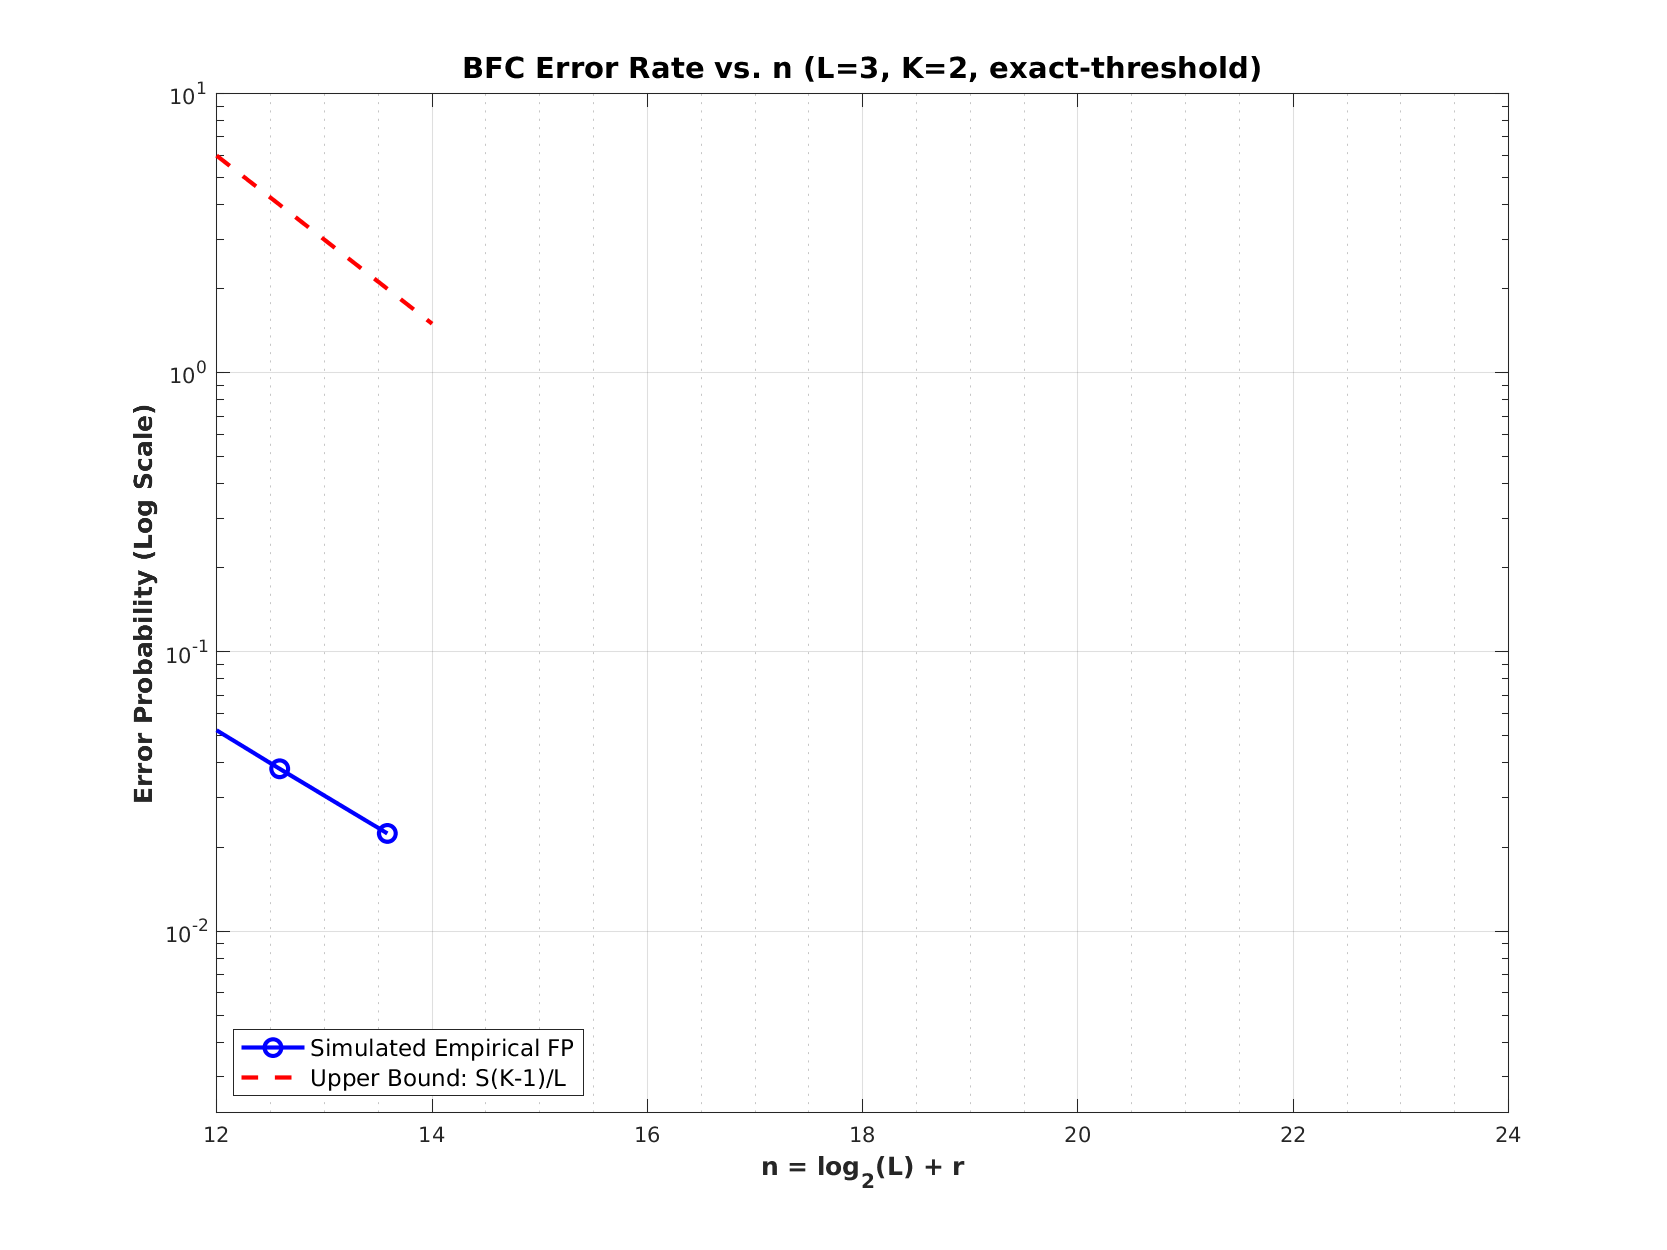
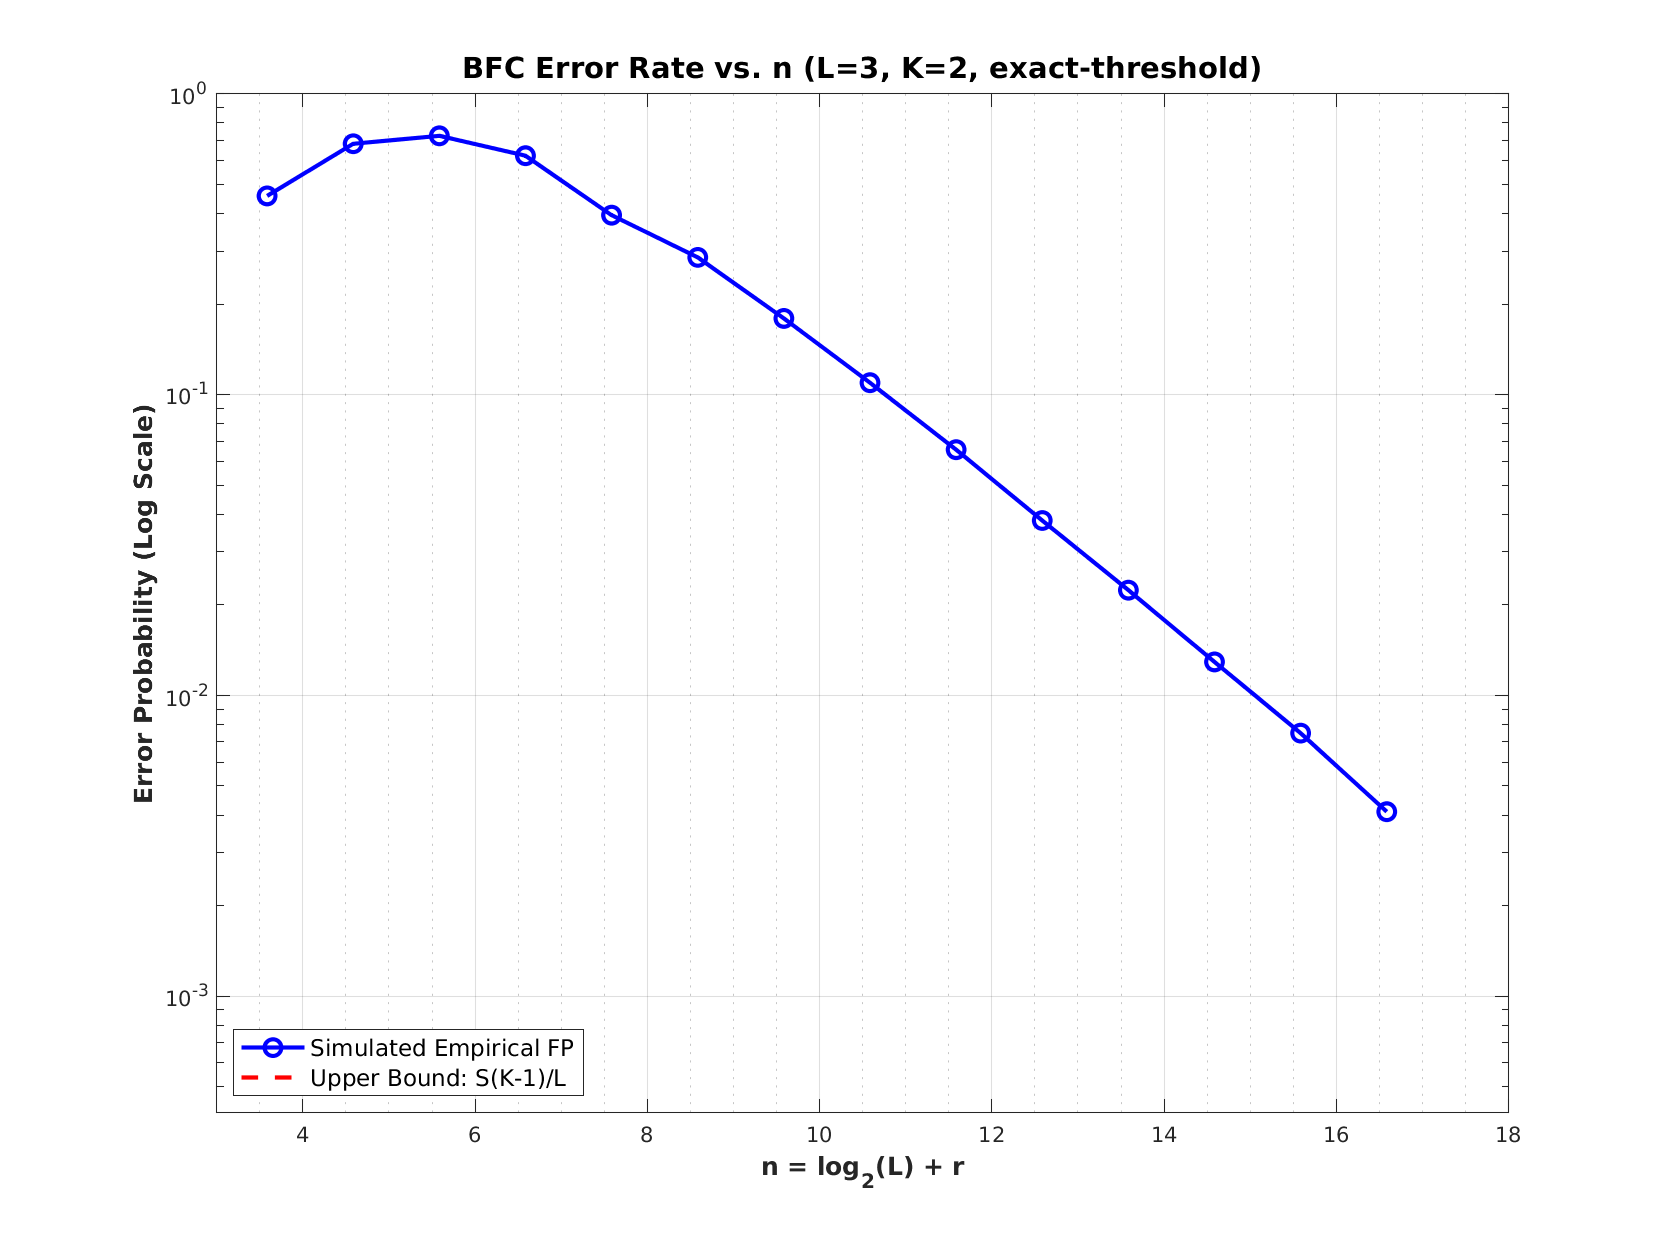
0618, spartan, add shannon in changing r

diff --git a/main_plot_error_rates_r_vec.m b/main_plot_error_rates_r_vec.m
@@ -12,7 +12,7 @@ tic
 % We MUST choose K=2 so that max(n) = log2(2^r - 1) + r ~ 2r = m
 L = 3;
 K = 2;           % Number of symbols
-r_list_sim = 2:14;  % start from at least L <= 2^r - 1
+r_list_sim = 2:17;  % start from at least L <= 2^r - 1
 num_trials = 1000000; % High trials since our vectorized Monte Carlo is fast
 
 
@@ -37,11 +37,10 @@ fprintf('=== BFC Plotting Simulation ===\n');
 % --- 3. Run Empirical Simulations ---
 sim_n_vals = zeros(1, length(r_list_sim));
 sim_error_prob = zeros(1, length(r_list_sim));
+sim_S_weights = zeros(1, length(r_list_sim)); % Store S for each r (should be the same)
 
 % We need the Hamming weight 'S' for the theoretical bound.
 % It will be the same for all L, so we will extract it on the first loop.
-S_weight = 0; 
-
 for i = 1:length(r_list_sim)
     r = r_list_sim(i);
     m = r * K;       % Total message length in bits 
@@ -54,11 +53,9 @@ for i = 1:length(r_list_sim)
     % Build decoding regions for this specific L
     [D, S_curr] = build_decoding_regions_vec(r, K, L, func_type, params);
     
-    if i == 1
-        S_weight = S_curr; % Save the Hamming weight for theoretical math
-        fprintf('Hamming weight of boolean function (S): %d\n', S_weight);
-    end
-    
+    sim_S_weights(i) = S_curr;
+    fprintf('Hamming weight of boolean function (S): %d\n', S_curr);
+
     % Run Monte Carlo
     stat = run_monte_carlo_vec(D, r, K, L, func_type, params, num_trials);
     sim_error_prob(i) = stat.error_prob;
@@ -69,11 +66,12 @@ end
 % --- 4. Compute Theoretical Bounds (Separated Calculation) ---
 % We calculate these smoothly over a continuous range of n
 n_theory = linspace(sim_n_vals(1), sim_n_vals(end), 500);
-
+m_theory = (n_theory - log2(L)) .* K;
 % 4a. Upper Bound: S * (K - 1) / L
 % Back-calculate continuous L from n: L = 2^(n - r)
-L_theory = 2.^(n_theory - r);
-theory_upper_bound = (S_weight * (K - 1)) ./ L_theory;
+theory_upper_bound = (sim_S_weights(1) * (K - 1)) ./ L;
+
+shannon_bound = 1 - 2.^(n_theory - m_theory);
 
 
 % --- 5. Plotting ---
@@ -95,7 +93,7 @@ legend('Location', 'southwest', 'FontSize', 11);
 xlim([floor(sim_n_vals(1)), ceil(sim_n_vals(end))]);
 
 % Enforce limits to make the plot visually clean
-ylim([max(1e-6, min(sim_error_prob(sim_error_prob>0)) * 0.1), 10]);
+ylim([max(1e-6, min(sim_error_prob(sim_error_prob>0)) * 0.1), 1]);
 saveas(gcf, sprintf('BFC_Error_Rates_%s_L%d_K%d_vec.png', func_type, L, K));
 
 fprintf('\n=== Simulation Complete ===\nPlot has been generated.\n');